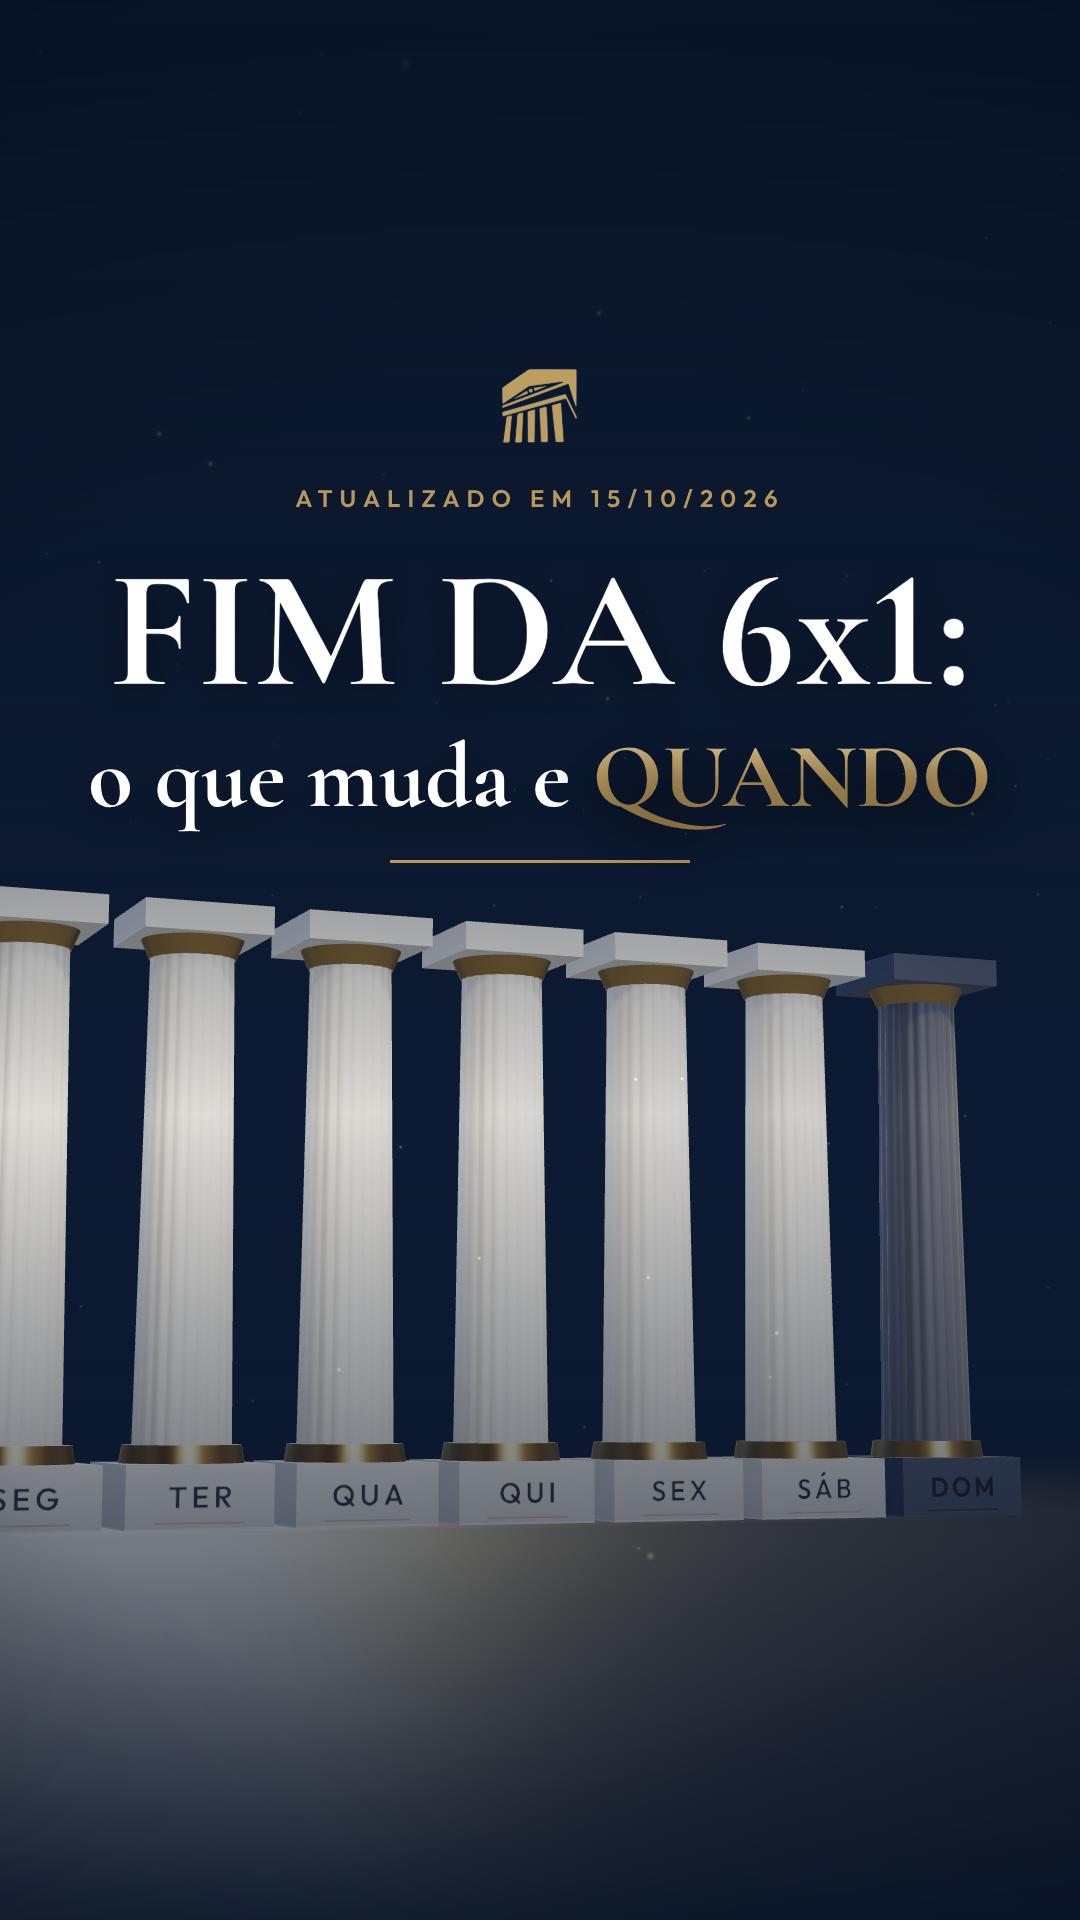
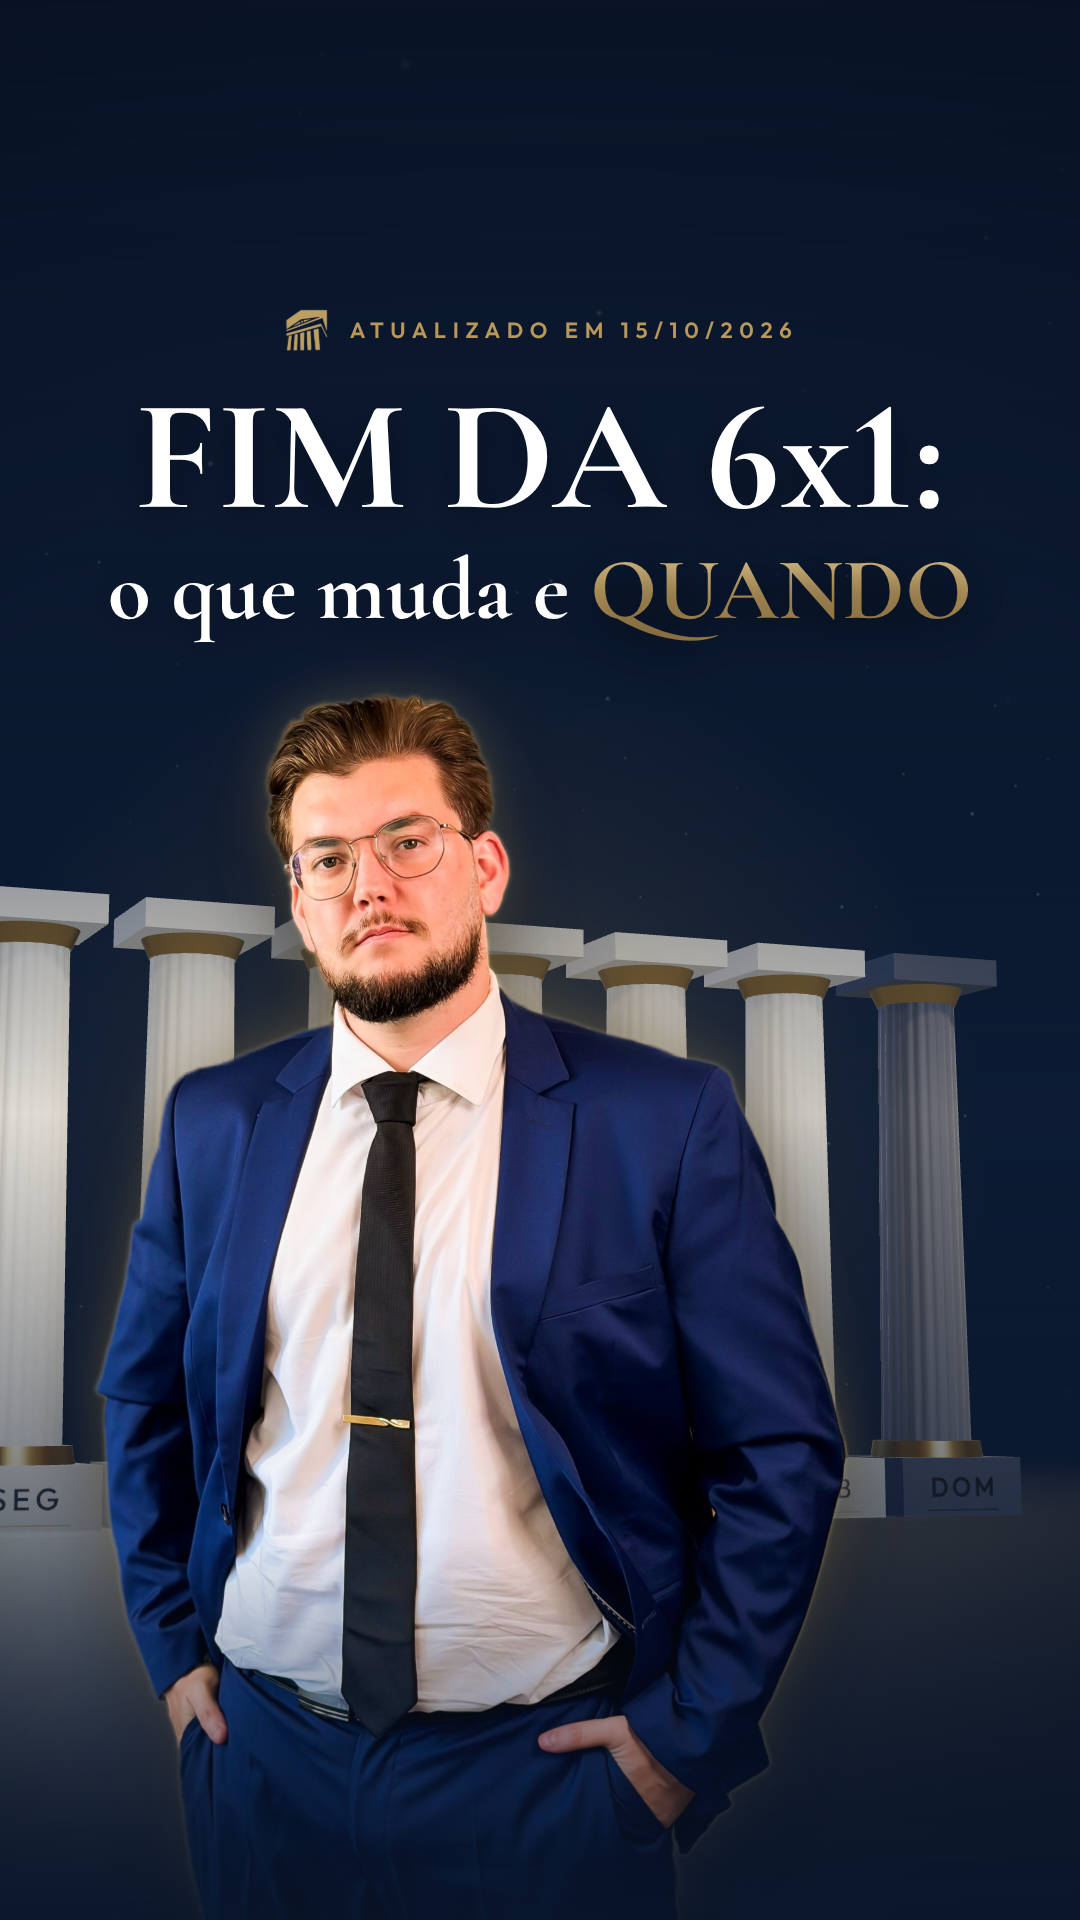
Reel 6x1: capa com foto recortada do Arthur (versão sem foto mantida)
Claude-Session: https://claude.ai/code/session_01Mo3ZK9zESs88XUGqbgkcQy

diff --git a/reel-6x1/src/Cover.tsx b/reel-6x1/src/Cover.tsx
@@ -17,16 +17,30 @@ export const Cover = () => {
           </ThreeCanvas>
           <AbsoluteFill style={{ background: "linear-gradient(180deg, rgba(10,22,42,0.9) 0%, rgba(10,22,42,0.35) 45%, rgba(10,22,42,0) 58%, rgba(10,22,42,0.55) 80%, rgba(10,22,42,0.95) 100%)" }} />
           <AbsoluteFill style={{ background: "radial-gradient(120% 70% at 50% 55%, rgba(0,0,0,0) 50%, rgba(6,14,30,0.6) 100%)" }} />
-          <div style={{ position: "absolute", left: 0, right: 0, top: 360, textAlign: "center" }}>
-            <Img src={staticFile("simbolo_dourado.png")} style={{ width: 92, opacity: 0.95 }} />
-            <div style={{ fontFamily: SANS, fontWeight: 600, fontSize: 24, letterSpacing: "0.3em", color: C.gold, marginTop: 26 }}>ATUALIZADO EM 15/10/2026</div>
-            <div style={{ fontFamily: SERIF, fontWeight: 700, fontSize: 168, lineHeight: 1, color: C.white, marginTop: 34, fontVariantNumeric: "lining-nums", textShadow: "0 10px 40px rgba(3,8,20,0.7)" }}>
+          {/* brilho dourado atrás do advogado */}
+          <div style={{ position: "absolute", left: 470 - 520, top: 640, width: 1040, height: 1040, background: "radial-gradient(closest-side, rgba(184,151,90,0.32), rgba(184,151,90,0.08) 60%, rgba(184,151,90,0) 100%)" }} />
+          <Img
+            src={staticFile("arthur_recorte.png")}
+            style={{
+              position: "absolute",
+              left: 470 - 376,
+              top: 690,
+              width: 752,
+              filter: "drop-shadow(0 0 2px rgba(232,208,154,0.55)) drop-shadow(0 0 26px rgba(184,151,90,0.35)) drop-shadow(0 30px 40px rgba(3,8,20,0.6))",
+            }}
+          />
+          <AbsoluteFill style={{ background: "linear-gradient(180deg, rgba(10,22,42,0) 80%, rgba(10,22,42,0.85) 100%)" }} />
+          <div style={{ position: "absolute", left: 0, right: 0, top: 305, textAlign: "center" }}>
+            <div style={{ display: "flex", alignItems: "center", justifyContent: "center", gap: 18 }}>
+              <Img src={staticFile("simbolo_dourado.png")} style={{ width: 50, opacity: 0.95 }} />
+              <div style={{ fontFamily: SANS, fontWeight: 600, fontSize: 22, letterSpacing: "0.3em", color: C.gold }}>ATUALIZADO EM 15/10/2026</div>
+            </div>
+            <div style={{ fontFamily: SERIF, fontWeight: 700, fontSize: 158, lineHeight: 1, color: C.white, marginTop: 22, fontVariantNumeric: "lining-nums", textShadow: "0 10px 40px rgba(3,8,20,0.7)" }}>
               FIM DA 6x1:
             </div>
-            <div style={{ fontFamily: SERIF, fontWeight: 700, fontSize: 92, lineHeight: 1.05, color: C.white, marginTop: 14, textShadow: "0 10px 40px rgba(3,8,20,0.7)" }}>
+            <div style={{ fontFamily: SERIF, fontWeight: 700, fontSize: 88, lineHeight: 1.05, color: C.white, marginTop: 8, textShadow: "0 10px 40px rgba(3,8,20,0.7)" }}>
               o que muda e <span style={{ ...GOLD_TEXT, filter: "drop-shadow(0 8px 24px rgba(3,8,20,0.7))" }}>QUANDO</span>
             </div>
-            <div style={{ width: 300, height: 3, background: C.gold, margin: "34px auto 0" }} />
           </div>
         </>
       )}
